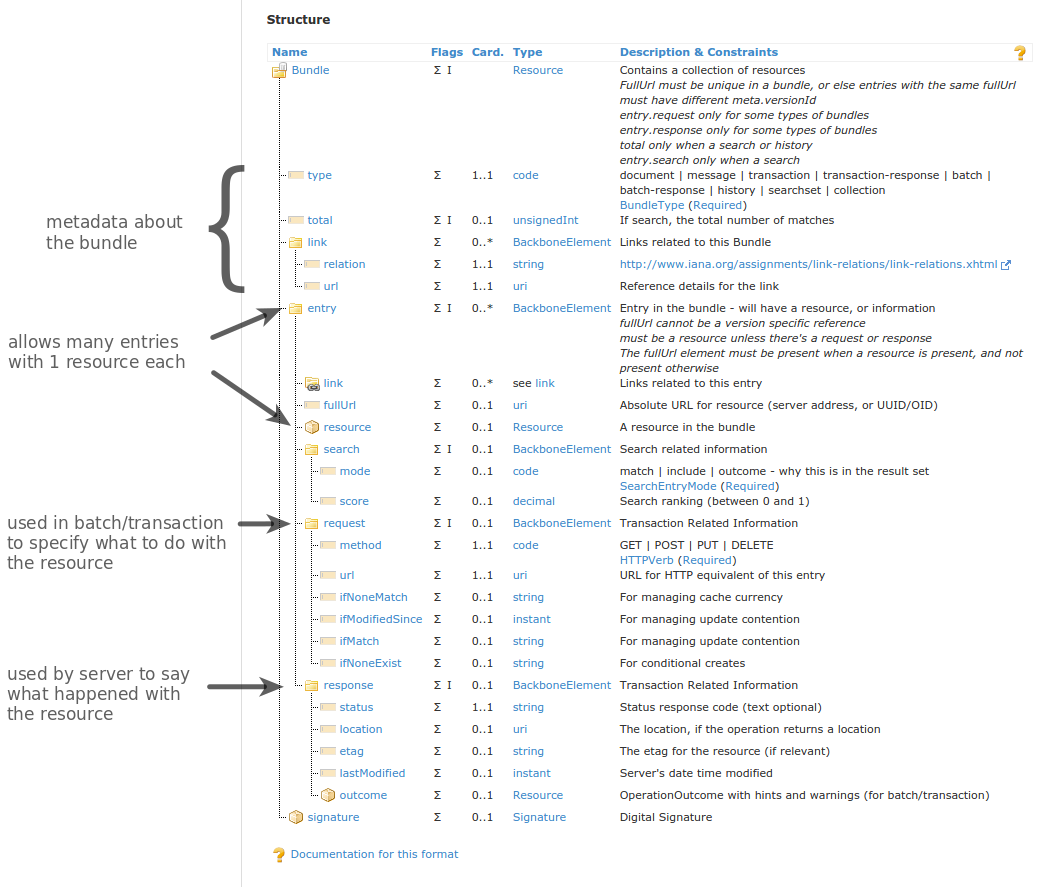
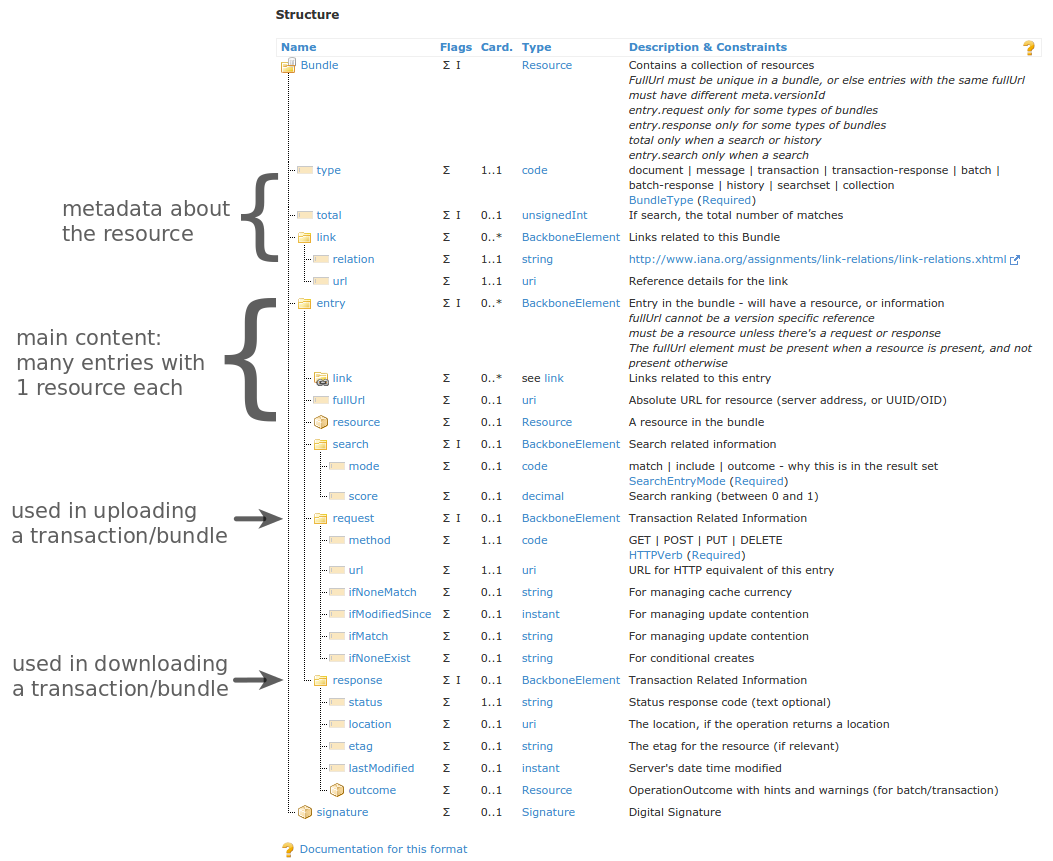
Re-organised Bundle page
Re-organised Bundle page based on received feedback.

diff --git a/bundle.html b/bundle.html
@@ -113,6 +113,7 @@
 								<h4>Contents</h4>
 								<!-- pr prefix stands for 'patient references'-->
 								<a href="#bn-about-bundle">Step 1: About Bundle</a>
+								<a href="#bn-bundle-types">Step 1: Bundle types</a>
 								<a href="#bn-upload-endpoints">Step 2: Upload endpoints</a>
 								<a href="#bn-reference-resolution">Step 3: Reference resolution</a>
 								<a href="#bn-paging">Step 3: Paging</a>
@@ -125,15 +126,46 @@
 
 							<p>So, contained resources cannot be GET'd, PUT'd and DELETE'd separately, or even referenced individually from outside the containing resource. Resources inside a bundle, depending on your Bundle type and how you've uploaded it, do get created individually on the server and thus can be acted on independently.</p>
 							
-<!--							<p>So, while resources inside a Bundle exist on the server individually and can be GET'd, PUT'd and DELETE'd separately, contained resources cannot be. They can't even be referenced individually from outside containing resource.</p>-->
+							<p>Here is how the general layout of a Bundle looks like:</p>
+							<a href="images/bundle-explanation.png" data-lightbox="bundle-explanation"><img src="images/bundle-explanation.png"/></a>							
+														
+							<h5 id="bn-paging">Paging</h5>							
+							<p>When the bundle is too big to send in one go, the server can choose to break it up into pieces (called "pages"). Since you can generally only get one response per HTTP request, transmitting the pieces becomes a problem. To solve this, the bundle provides links to the next page within it - so the client, after getting a page, can request the page and so on until the end. In addition to a link to the next page, links to the previous, first, and last pages are also provided (example from FHIR):</p>
+								
+							<textarea id="codesystem-1" class="fhir-resource-xml">
+<!-- ... snipped ... -->
+<link>
+  <relation value="first"/>
+  <url value="http://example.org/Patient?name=peter&stateid=23&page=1"/>
+</link>
+<link>
+  <relation value="previous"/>
+  <url value="http://example.org/Patient?name=peter&stateid=23&page=2"/>
+</link>
+<link>
+  <relation value="next"/>
+  <url value="http://example.org/Patient?name=peter&stateid=23&page=4"/>
+</link>
+<link>
+  <relation value="last"/>
+  <url value="http://example.org/Patient?name=peter&stateid=23&page=26"/>
+</link>	
+<!-- ... snipped ... -->
+							</textarea>
+							<p>See <a href="http://hl7.org/fhir/2016Sep/http.html#paging">more information on paging</a> on the FHIR spec.</p>		
+							
+							
+							<h5 id="bn-about-bundle">Step 1: Bundle Types</h5>
 							
 							<p>There are <a href="http://hl7.org/fhir/2016Sep/valueset-bundle-type.html#expansion">several types</a> of bundles defined by FHIR: document, message, transaction, transaction-response, batch, batch-response, history, searchset, and collection.
 							<p><b>Document</b>, <b>message</b>, and <b>collection</b> are used in specific data exchange paradigms. Loosely speaking, you can think of document-type bundles as those representing a CDA document, a message-type bundle representing a V2 message, and a collection as a general catch-all type.</p>
 							<p><b>Searchset</b> is used in searching - an operation you're already familiar with - it's the bundle that collates search results into a single response. As some search results can return a large number of results, this is where the idea of <a href="#bn-paging">paging</a> comes in.</p>
 							<p><b>History</b> is similar to searchset, but is specialised for the <a href="http://hl7.org/fhir/2016Sep/http.html#history">_history</a> operation when you're looking at the history of operations on and versions of a resource(s).</p>
 							<p>Lastly, <b>batch</b> and <b>transaction</b> allow you to condense multiple operations into one - say you'd like to upload 5 resources but don't want to upload do it using 5 times, you can gather all of the resources up into a Bundle and upload it all at once. The difference between a batch and a transaction is how things are handled when an issue happens. When one of the operations of a transaction fails, the entire transaction fails and no changes happen on the server as a result of the transaction. If one of the operations of a batch fails, then the rest of the operations can still complete successfully. <b>Batch-</b> and <b>transaction-response</b> is what the server will respond with where it tells you what happened with each operation within your bundle.</p>
-							<p>Here is how the general layout of a Bundle looks like:</p>
-							<a href="images/bundle-explanation.png" data-lightbox="bundle-explanation"><img src="images/bundle-explanation.png"/></a>
+
+					
+							
+							
 							<h5 id="bn-upload-endpoints">Step 2: Upload endpoints</h5>
 							<p>If you upload a Bundle to <code><b>[Service Root URL]/Bundle</b></code>, your Bundle will be stored as-is, just like any other resource. Sometimes this is the desired behaviour, but in other times you'd like the server to actually process the bundle - for example, the transactions in your transaction bundle to actually be acted upon. In order to get the server to unpack and process your bundle, you need to upload to the <code><b>[Service Root URL]</b></code> directly - this most reliably works for transaction, batch, and document bundle types. How the server deals with other bundle types is up to it. Here is a complete list of endpoints that bundles may be uploaded to:</p>
 							<table class="table-fill">
@@ -183,6 +215,9 @@
 </tbody>
 </table>
 							
+													
+
+							
 							<h5 id="bn-reference-resolution">Step 3: Reference resolution</h5>
 							<p>Resources in a bundle can reference two types of resources - either those already existing on the server, outside the bundle, or resources inside the bundle that are yet to be created on the server. Referencing resources inside a bundle can be tricky - if you're uploading the resources inside a bundle, how can you reference them if they don't have IDs yet?</p>
 							
@@ -201,31 +236,6 @@
 
 							<p>If you're <b>downloading</b> any kind of bundle, then the same reference rules described in the <a href="patient-with-references.html">previous "patient with references" tutorial</a> apply (see the <a href="http://hl7.org/fhir/2016Sep/bundle.html#references">FHIR section</a> on this). The gist of it is that you should look for referenced resources within the bundle first, and if the reference is not an absolute one, to convert it following a series of rules.</p>
 							
-							
-							<h5 id="bn-paging">Paging</h5>							
-							<p>When the bundle is too big to send in one go, the server can choose to break it up into pieces (called "pages"). Since you can generally only get one response per HTTP request, transmitting the pieces becomes a problem. To solve this, the bundle provides links to the next page within it - so the client, after getting a page, can request the page and so on until the end. In addition to a link to the next page, links to the previous, first, and last pages are also provided (example from FHIR):</p>
-								
-							<textarea id="codesystem-1" class="fhir-resource-xml">
-<!-- ... snipped ... -->
-<link>
-  <relation value="first"/>
-  <url value="http://example.org/Patient?name=peter&stateid=23&page=1"/>
-</link>
-<link>
-  <relation value="previous"/>
-  <url value="http://example.org/Patient?name=peter&stateid=23&page=2"/>
-</link>
-<link>
-  <relation value="next"/>
-  <url value="http://example.org/Patient?name=peter&stateid=23&page=4"/>
-</link>
-<link>
-  <relation value="last"/>
-  <url value="http://example.org/Patient?name=peter&stateid=23&page=26"/>
-</link>	
-<!-- ... snipped ... -->
-							</textarea>
-							<p>See <a href="http://hl7.org/fhir/2016Sep/http.html#paging">more information on paging</a> on the FHIR spec.</p>
 							<p>That's about it for the difficult parts of a Bundle! Have a look at the <a href="http://hl7.org/fhir/2016Sep/bundle.html">FHIR page for Bundle</a> now for things like uniqueness rules and search parameters of a Bundle.</p>
 						</div>
 					</div>
